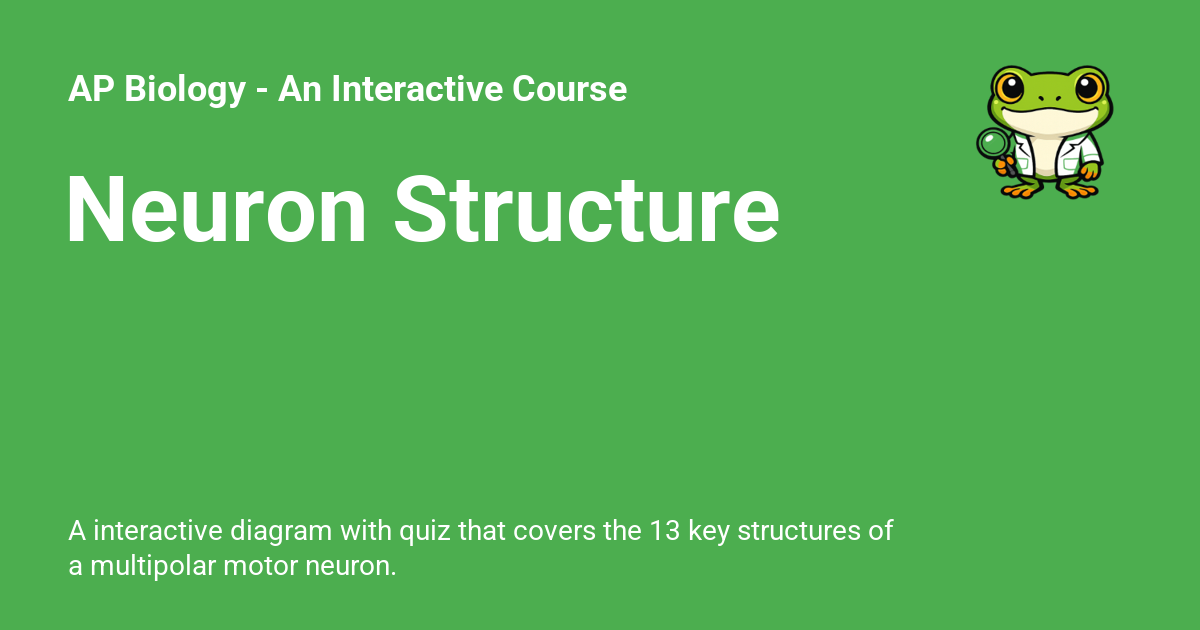
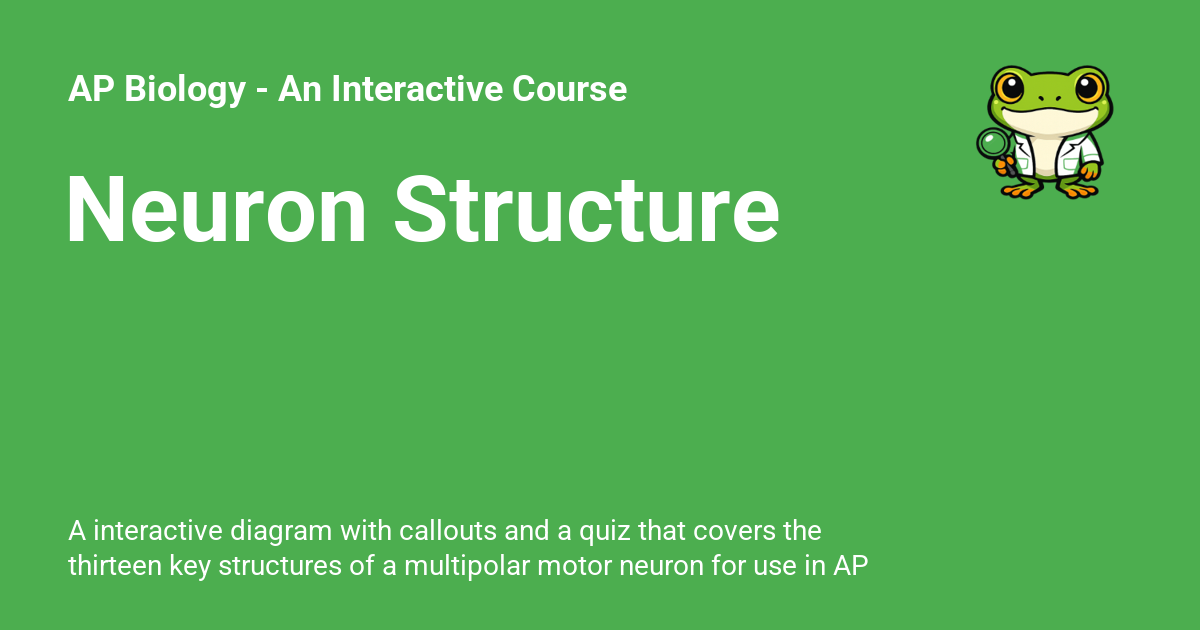
Deployed 03be832 with MkDocs version: 1.6.1

Changed region(s): [[0.0617, 0.8143, 0.74, 0.9349]]

diff --git a/sims/neuron-structure/index.html b/sims/neuron-structure/index.html
@@ -6,7 +6,7 @@
       <meta charset="utf-8">
       <meta name="viewport" content="width=device-width,initial-scale=1">
       
-        <meta name="description" content="A interactive diagram with quiz that covers the 13 key structures of a multipolar motor neuron.">
+        <meta name="description" content="A interactive diagram with callouts and a quiz that covers the thirteen key structures of a multipolar motor neuron for use in AP biology.">
       
       
         <meta name="author" content="Dan McCreary">
@@ -77,7 +77,7 @@
       
         <meta  property="og:title"  content="Neuron Structure - AP Biology - An Interactive Course" >
       
-        <meta  property="og:description"  content="A interactive diagram with quiz that covers the 13 key structures of a multipolar motor neuron." >
+        <meta  property="og:description"  content="A interactive diagram with callouts and a quiz that covers the thirteen key structures of a multipolar motor neuron for use in AP biology." >
       
         <meta property="og:image" content="https://dmccreary.github.io/biology/sims/neuron-structure/neuron-structure.png">
       
@@ -93,7 +93,7 @@
       
         <meta  name="twitter:title"  content="Neuron Structure - AP Biology - An Interactive Course" >
       
-        <meta  name="twitter:description"  content="A interactive diagram with quiz that covers the 13 key structures of a multipolar motor neuron." >
+        <meta  name="twitter:description"  content="A interactive diagram with callouts and a quiz that covers the thirteen key structures of a multipolar motor neuron for use in AP biology." >
       
         <meta name="twitter:image" content="https://dmccreary.github.io/biology/sims/neuron-structure/neuron-structure.png">
       
